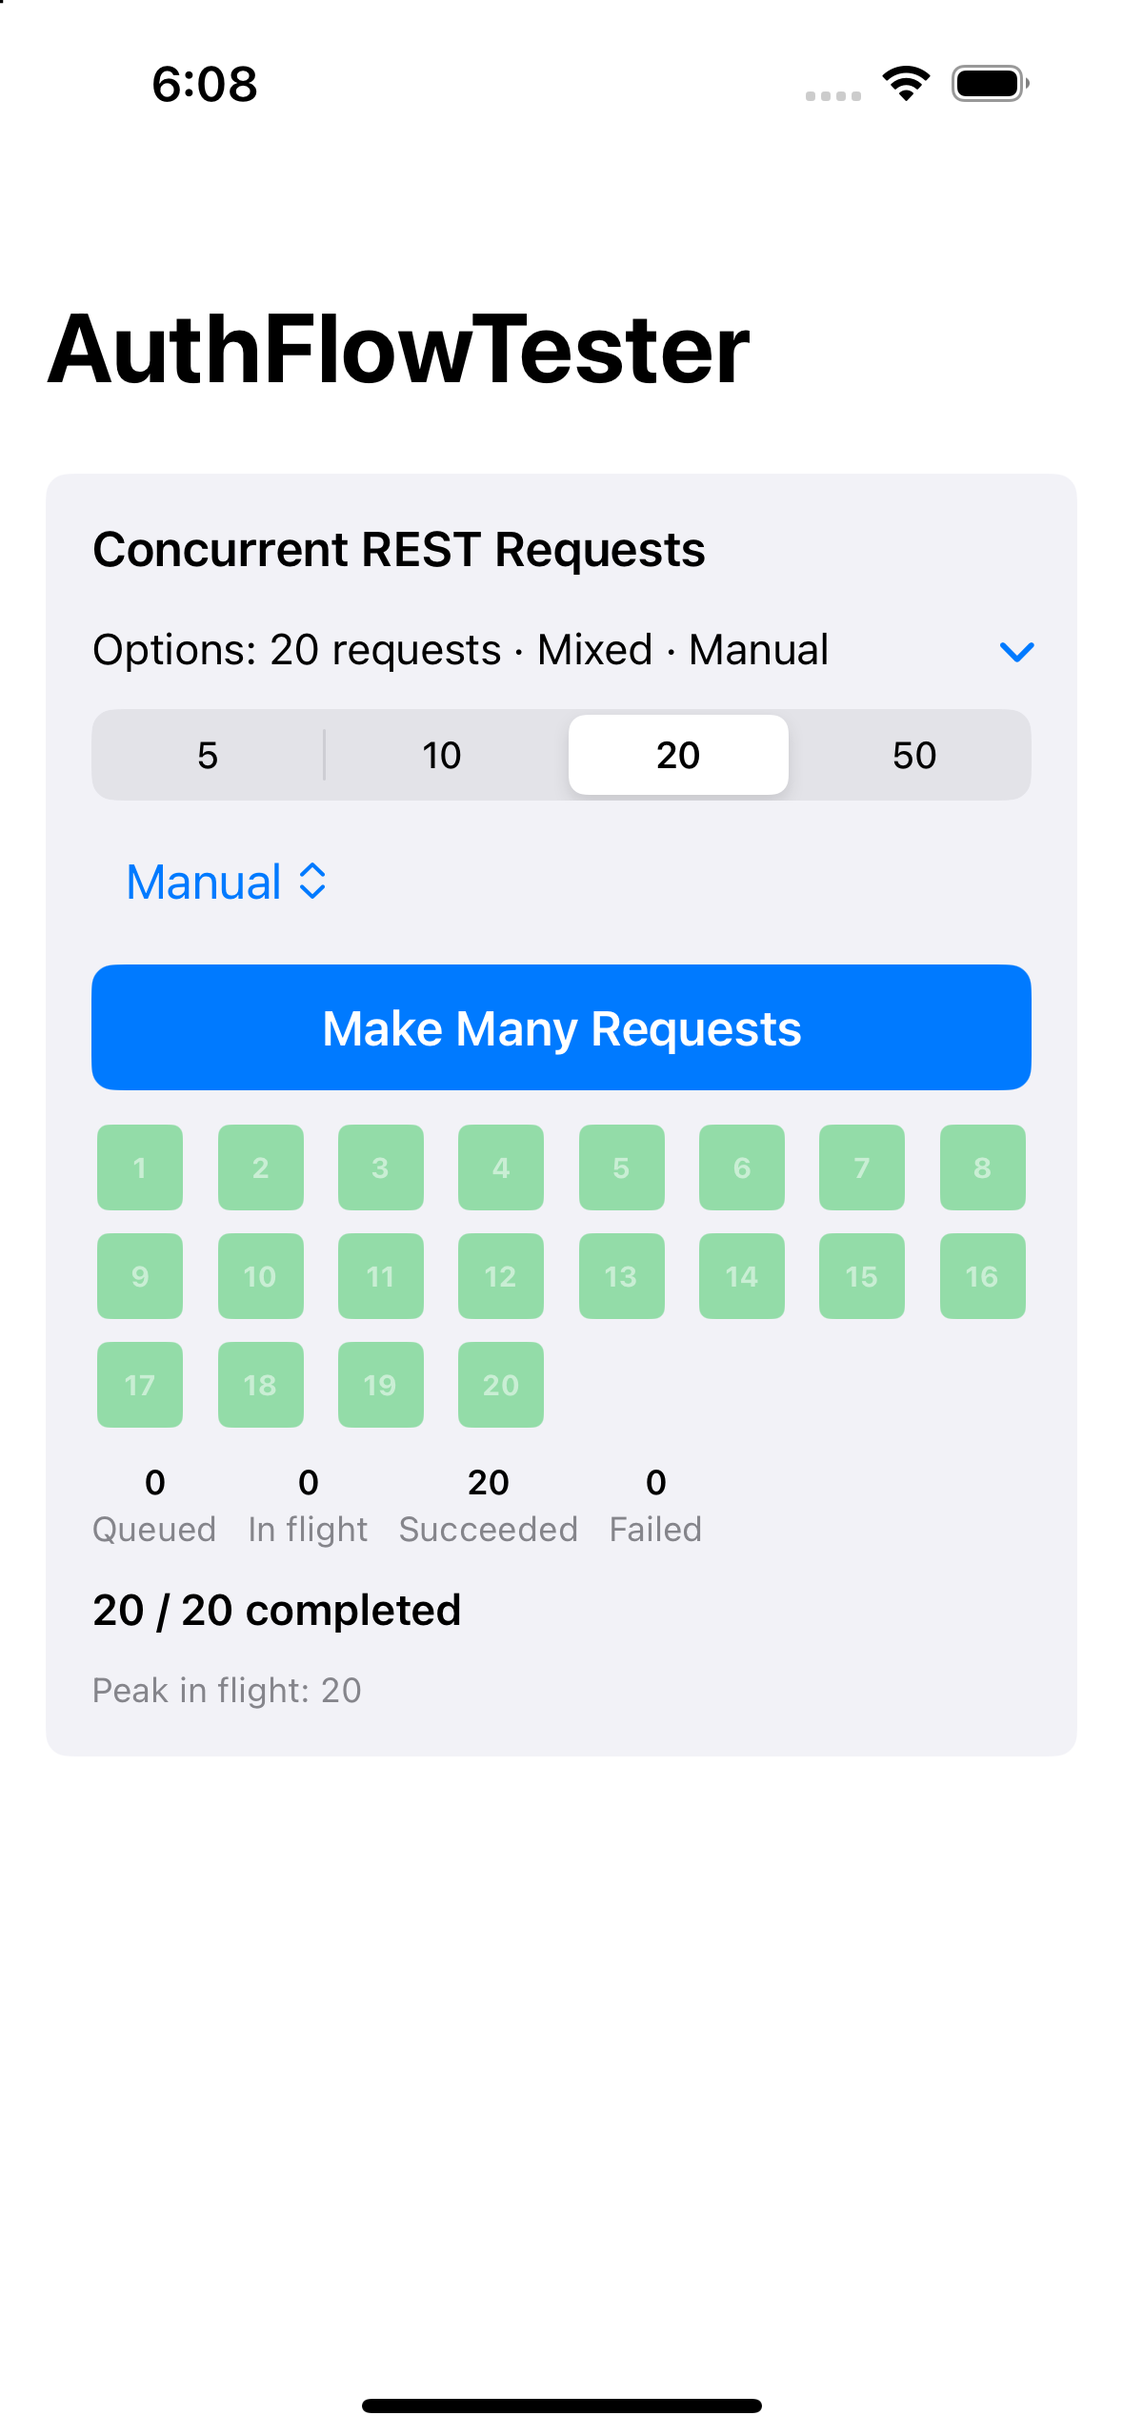
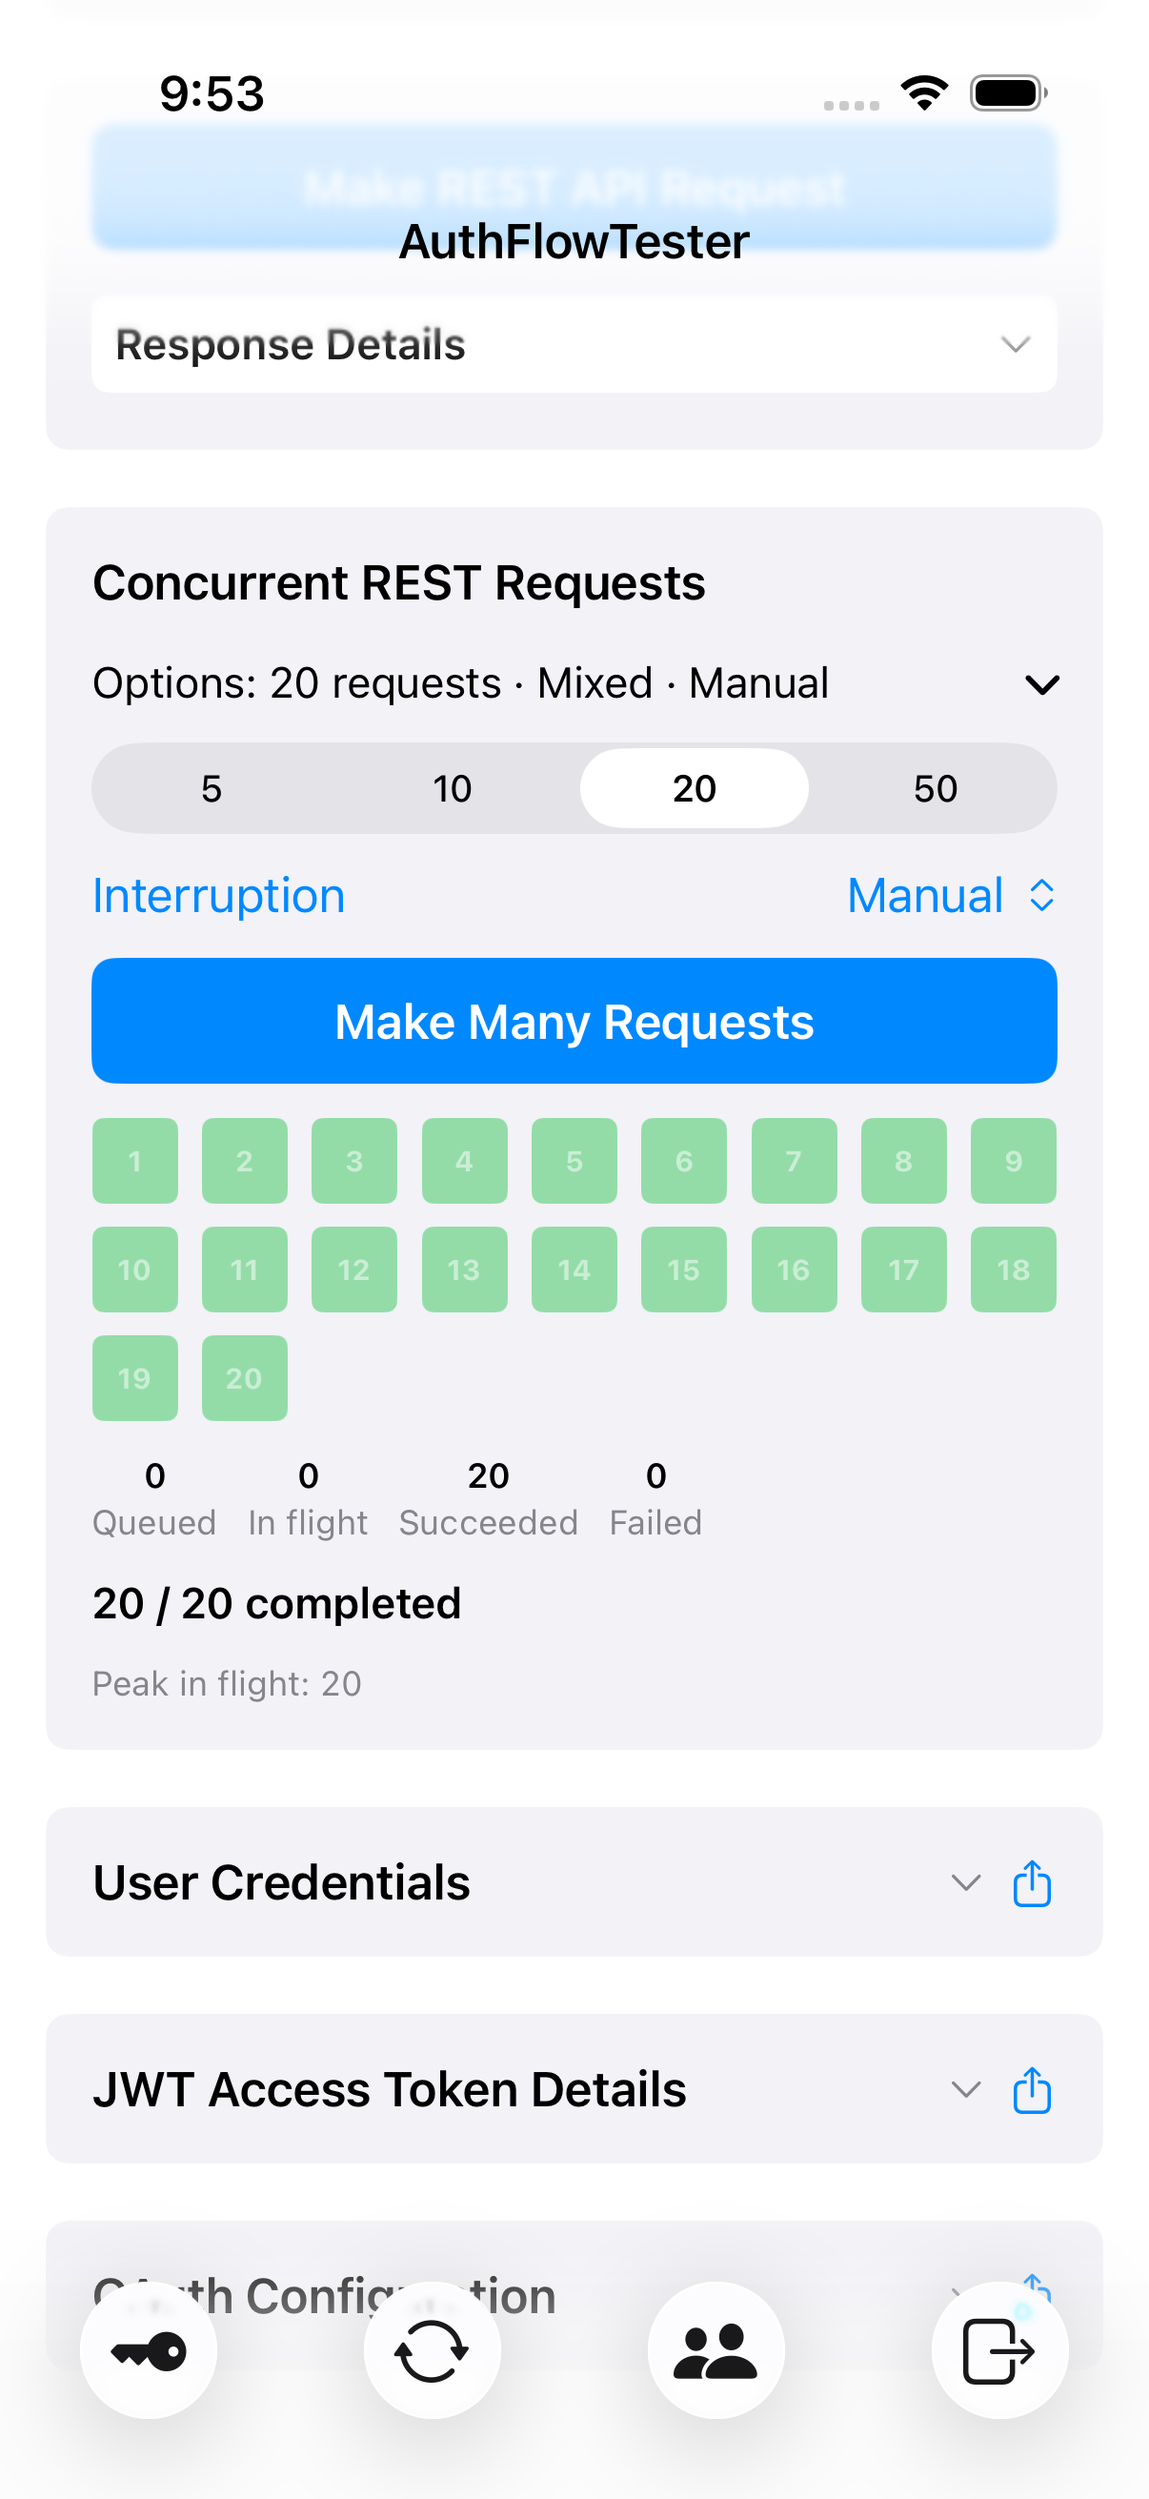
Harden concurrent AuthFlowTester scenarios

diff --git a/native/SampleApps/AuthFlowTester/AuthFlowTester/Views/RestApiTestView.swift b/native/SampleApps/AuthFlowTester/AuthFlowTester/Views/RestApiTestView.swift
@@ -190,14 +190,12 @@ struct RestApiTestView: View {
 
 private enum ConcurrentRequestKind: String, CaseIterable {
     case resources
-    case limits
     case describeGlobal
     case intentionalFailure
 
     var title: String {
         switch self {
         case .resources: return "API Resources"
-        case .limits: return "Limits"
         case .describeGlobal: return "Describe Global"
         case .intentionalFailure: return "Intentional Failure"
         }
@@ -345,12 +343,21 @@ struct ConcurrentRestApiTestView: View {
                     .disabled(isRunning)
                     .accessibilityIdentifier("manyRequestsCountPicker")
 
-                    Picker("Interruption", selection: $interruption) {
+                    Menu {
                         ForEach(ConcurrentRequestInterruption.allCases) { mode in
-                            Text(mode.title).tag(mode)
+                            Button(mode.title) {
+                                interruption = mode
+                            }
+                        }
+                    } label: {
+                        HStack {
+                            Text("Interruption")
+                            Spacer()
+                            Text(interruption.title)
+                            Image(systemName: "chevron.up.chevron.down")
+                                .font(.caption)
                         }
                     }
-                    .pickerStyle(.menu)
                     .disabled(isRunning)
                     .accessibilityIdentifier("manyRequestsInterruptionPicker")
 
@@ -365,8 +372,8 @@ struct ConcurrentRestApiTestView: View {
                 Text("Options: \(requestCount) requests · Mixed · \(interruption.title)")
                     .font(.subheadline)
                     .foregroundColor(.primary)
+                    .accessibilityIdentifier("manyRequestsOptions")
             }
-            .accessibilityIdentifier("manyRequestsOptions")
 
             Button(action: {
                 Task {
@@ -645,7 +652,9 @@ struct ConcurrentRestApiTestView: View {
             return .intentionalFailure
         }
         #endif
-        let mix: [ConcurrentRequestKind] = [.resources, .limits, .describeGlobal]
+        // Keep the stress mix usable by minimally privileged test users. API Resources is
+        // intentionally weighted to avoid adding a permission-dependent endpoint.
+        let mix: [ConcurrentRequestKind] = [.resources, .resources, .describeGlobal]
         return mix[(requestNumber - 1) % mix.count]
     }
 
@@ -653,8 +662,6 @@ struct ConcurrentRestApiTestView: View {
         switch kind {
         case .resources:
             return client.cheapRequest(nil)
-        case .limits:
-            return client.request(forLimits: nil)
         case .describeGlobal:
             return client.request(forDescribeGlobal: nil)
         case .intentionalFailure:

diff --git a/native/SampleApps/AuthFlowTester/AuthFlowTesterUITests/Tests/DPoPLoginTests.swift b/native/SampleApps/AuthFlowTester/AuthFlowTesterUITests/Tests/DPoPLoginTests.swift
@@ -38,7 +38,7 @@ class DPoPLoginTests: BaseAuthFlowTester {
     /// Login with ECA JWT DPoP using hybrid flow and verify DPoP token binding.
     func test_givenDPoPHybrid_whenLogin_thenTokenTypeIsDPoPAndRefreshWorks() throws {
         launchLoginAndValidate(staticAppConfigName: .ecaJwtDpop, useDPoP: true)
-        // Two revoke/refresh cycles verify DPoP binding survives a second nonce rotation
+        // Two revoke/refresh cycles verify DPoP binding survives a second recovery
         // (parity with Android's `testECAJwtDPoP_Hybrid`).
         assertRevokeAndRefreshWorks(expectsRefreshTokenRotation: false, isDPoP: true, isJwt: true)
         assertRevokeAndRefreshWorks(expectsRefreshTokenRotation: false, isDPoP: true, isJwt: true)
@@ -47,7 +47,7 @@ class DPoPLoginTests: BaseAuthFlowTester {
     /// Login with ECA JWT DPoP without hybrid flow and verify DPoP token binding.
     func test_givenDPoPNoHybrid_whenLogin_thenTokenTypeIsDPoPAndRefreshWorks() throws {
         launchLoginAndValidate(staticAppConfigName: .ecaJwtDpop, useHybridFlow: false, useDPoP: true)
-        // Two revoke/refresh cycles verify DPoP binding survives a second nonce rotation
+        // Two revoke/refresh cycles verify DPoP binding survives a second recovery
         // (parity with Android's `testECAJwtDPoP_NoHybrid`).
         assertRevokeAndRefreshWorks(expectsRefreshTokenRotation: false, isDPoP: true, useHybridFlow: false, isJwt: true)
         assertRevokeAndRefreshWorks(expectsRefreshTokenRotation: false, isDPoP: true, useHybridFlow: false, isJwt: true)
@@ -84,7 +84,6 @@ class DPoPLoginTests: BaseAuthFlowTester {
         XCTAssertNotEqual(credentialsAfter.refreshToken, credentialsBefore.refreshToken)
         XCTAssertEqual(credentialsAfter.dpopTokenType, "DPoP")
         XCTAssertFalse(credentialsAfter.dpopNonce?.isEmpty ?? true)
-        XCTAssertNotEqual(credentialsAfter.dpopNonce, credentialsBefore.dpopNonce)
     }
 
     /// Revoke a non-RTR DPoP session under load and verify proof/nonce recovery remains usable.
@@ -107,7 +106,6 @@ class DPoPLoginTests: BaseAuthFlowTester {
         XCTAssertEqual(credentialsAfter.refreshToken, credentialsBefore.refreshToken)
         XCTAssertEqual(credentialsAfter.dpopTokenType, "DPoP")
         XCTAssertFalse(credentialsAfter.dpopNonce?.isEmpty ?? true)
-        XCTAssertNotEqual(credentialsAfter.dpopNonce, credentialsBefore.dpopNonce)
     }
 
     // MARK: - Multi-User

diff --git a/native/SampleApps/AuthFlowTester/AuthFlowTesterUITests/Tests/MultiUserLoginTests.swift b/native/SampleApps/AuthFlowTester/AuthFlowTesterUITests/Tests/MultiUserLoginTests.swift
@@ -524,15 +524,20 @@ class MultiUserLoginTests: BaseAuthFlowTester {
         let removedUsername = getUserCredentials().username
 
         startManyRestRequests(interruption: .logout)
-        XCTAssertTrue(waitForManyRequestsInterruptionRequested())
+        XCTAssertTrue(
+            waitForCurrentUser(username: userACredentials.username),
+            "The remaining RTR user should become current after the DPoP+RTR user is logged out under load"
+        )
 
+        // Logout briefly presents a fresh advanced-auth browser even though the SDK has already
+        // switched the underlying current user. A cold relaunch removes that transient surface
+        // and proves the surviving account was persisted as current before we interact with it.
+        restartAndValidateUser(user: .fourth, userAppConfigName: .ecaJwtRtr)
         let currentCredentials = getUserCredentials()
         XCTAssertEqual(currentCredentials.username, userACredentials.username)
         XCTAssertEqual(currentCredentials.accessToken, userACredentials.accessToken)
         XCTAssertEqual(currentCredentials.refreshToken, userACredentials.refreshToken)
-        XCTAssertTrue(makeRestRequest(), "The remaining RTR user should be usable after cleanup")
 
-        restartAndValidateUser(user: .fourth, userAppConfigName: .ecaJwtRtr)
         let userListState = inspectUserList(for: removedUsername)
         XCTAssertEqual(userListState.userCount, 1, "Only the remaining RTR user should survive restart")
         XCTAssertFalse(userListState.containsUsername, "The logged-out DPoP+RTR user must stay removed")

diff --git a/native/SampleApps/AuthFlowTester/AuthFlowTesterUITests/Tests/ConcurrentRestRequestTests.swift b/native/SampleApps/AuthFlowTester/AuthFlowTesterUITests/Tests/ConcurrentRestRequestTests.swift
@@ -39,8 +39,9 @@ class ConcurrentRestRequestTests: BaseAuthFlowTester {
 
         assertSuccessfulBatch(result)
         XCTAssertTrue(manyRequestType(at: 1).contains("API Resources"))
-        XCTAssertTrue(manyRequestType(at: 2).contains("Limits"))
+        XCTAssertTrue(manyRequestType(at: 2).contains("API Resources"))
         XCTAssertTrue(manyRequestType(at: 3).contains("Describe Global"))
+        XCTAssertNotEqual(manyRequestType(at: 1), manyRequestType(at: 3))
         let credentialsAfterBatch = getUserCredentials()
         XCTAssertEqual(credentialsAfterBatch.accessToken, credentialsBeforeBatch.accessToken)
         XCTAssertEqual(credentialsAfterBatch.refreshToken, credentialsBeforeBatch.refreshToken)
@@ -74,11 +75,10 @@ class ConcurrentRestRequestTests: BaseAuthFlowTester {
         launchLoginAndValidate(staticAppConfigName: .ecaJwtRtr)
 
         startManyRestRequests(interruption: .logout)
-        XCTAssertTrue(waitForManyRequestsInterruptionRequested(), "Logout should be requested only after requests enter flight")
-        XCTAssertTrue(isShowingLogin(), "Logout under load should return to login")
+        XCTAssertTrue(waitForLoggedOut(), "Logout under load should return to an unauthenticated login surface")
 
         restart()
-        XCTAssertTrue(isShowingLogin(), "A cold relaunch must not resurrect the logged-out user")
+        XCTAssertTrue(waitForLoggedOut(), "A cold relaunch must not resurrect the logged-out user")
     }
 
     private func assertSuccessfulBatch(_ result: ManyRequestsResult, file: StaticString = #filePath, line: UInt = #line) {

diff --git a/native/SampleApps/AuthFlowTester/AuthFlowTesterUITests/PageObjects/AuthFlowTesterMainPageObject.swift b/native/SampleApps/AuthFlowTester/AuthFlowTesterUITests/PageObjects/AuthFlowTesterMainPageObject.swift
@@ -292,6 +292,17 @@ class AuthFlowTesterMainPageObject {
         tap(manyRequestsInterruptionPicker())
         tap(app.buttons[interruption.rawValue])
 
+        let selectedInterruption = NSPredicate(format: "label CONTAINS %@", interruption.rawValue)
+        let selectionExpectation = XCTNSPredicateExpectation(
+            predicate: selectedInterruption,
+            object: manyRequestsOptionsButton()
+        )
+        XCTAssertEqual(
+            XCTWaiter.wait(for: [selectionExpectation], timeout: UITestTimeouts.long),
+            .completed,
+            "Concurrent request interruption did not change to \(interruption.rawValue)"
+        )
+
         scrollToElement(makeManyRestRequestsButton())
         tap(makeManyRestRequestsButton())
     }
@@ -386,6 +397,16 @@ class AuthFlowTesterMainPageObject {
         tap(navigationBar.buttons["Cancel"])
         XCTAssertTrue(navigationBar.waitForNonExistence(timeout: UITestTimeouts.long))
         return state
+    }
+
+    func waitForCurrentUser(username: String) -> Bool {
+        let credentialsSection = userCredentialsSection()
+        guard credentialsSection.waitForExistence(timeout: UITestTimeouts.long) else { return false }
+        let predicate = NSPredicate { _, _ in
+            (credentialsSection.value as? String) == username
+        }
+        let expectation = XCTNSPredicateExpectation(predicate: predicate, object: credentialsSection)
+        return XCTWaiter.wait(for: [expectation], timeout: UITestTimeouts.network) == .completed
     }
     
     func revokeAccessToken() -> Bool {

diff --git a/native/SampleApps/AuthFlowTester/AuthFlowTesterUITests/PageObjects/LoginPageObject.swift b/native/SampleApps/AuthFlowTester/AuthFlowTesterUITests/PageObjects/LoginPageObject.swift
@@ -41,6 +41,20 @@ class LoginPageObject {
     func isShowing() -> Bool {
         return loginNavigationBar().waitForExistence(timeout: UITestTimeouts.network)
     }
+
+    /// Waits for any stable unauthenticated surface. Forced advanced authentication presents
+    /// the system browser instead of the legacy in-app "Log In" navigation controller.
+    func waitForLoggedOut() -> Bool {
+        let salesforceLoginTitle = app.staticTexts["Salesforce login"].firstMatch
+        let predicate = NSPredicate { [weak self] _, _ in
+            guard let self else { return false }
+            return self.loginNavigationBar().exists ||
+                self.advancedAuthCloseButton().exists ||
+                salesforceLoginTitle.exists
+        }
+        let expectation = XCTNSPredicateExpectation(predicate: predicate, object: app)
+        return XCTWaiter.wait(for: [expectation], timeout: UITestTimeouts.network) == .completed
+    }
     
     func hasFilledUsernameField(username: String) -> Bool {
         return app.staticTexts[username].waitForExistence(timeout: UITestTimeouts.long)

diff --git a/native/SampleApps/AuthFlowTester/AuthFlowTesterUITests/Util/BaseAuthFlowTester.swift b/native/SampleApps/AuthFlowTester/AuthFlowTesterUITests/Util/BaseAuthFlowTester.swift
@@ -1139,8 +1139,16 @@ class BaseAuthFlowTester: XCTestCase {
         return mainPage.inspectUserList(for: username)
     }
 
+    func waitForCurrentUser(username: String) -> Bool {
+        return mainPage.waitForCurrentUser(username: username)
+    }
+
     func isShowingLogin() -> Bool {
         return loginPage.isShowing()
+    }
+
+    func waitForLoggedOut() -> Bool {
+        return loginPage.waitForLoggedOut()
     }
 
     // MARK: - Force Advanced Auth Test Support

diff --git a/native/SampleApps/AuthFlowTester/AuthFlowTester/Views/UserCredentialsView.swift b/native/SampleApps/AuthFlowTester/AuthFlowTester/Views/UserCredentialsView.swift
@@ -146,6 +146,7 @@ struct UserCredentialsView: View {
                             .foregroundColor(.secondary)
                     }
                 }
+                .accessibilityValue(username)
                 Button(action: {
                     exportedJSON = generateCredentialsJSON()
                     showExportAlert = true

diff --git a/native/SampleApps/AuthFlowTester/README.md b/native/SampleApps/AuthFlowTester/README.md
@@ -53,7 +53,7 @@ External Client App (ECA) login tests for both opaque and JWT token formats with
 | `testDynamicConfigurationWithInvalidScope` | — | — | Invalid scope; login must fail |
 
 #### DPoPLoginTests
-All DPoP tests live here — basic login, RTR, multi-user, migration, server enforcement, upgrade, restart, pool server, and admin login. Verifies that DPoP-bound access tokens are issued (`token_type: "DPoP"`), API calls succeed with `ath`-bound proofs, the access token refreshes correctly, and the DPoP nonce rotates on every `/token` response.
+All DPoP tests live here — basic login, RTR, multi-user, migration, server enforcement, upgrade, restart, pool server, and admin login. Verifies that DPoP-bound access tokens are issued (`token_type: "DPoP"`), API calls succeed with `ath`-bound proofs, the access token refreshes correctly, and server-issued DPoP nonces are harvested and reused until the server rotates them.
 
 | Test | App Config | Hybrid | Notes |
 |------|-----------|--------|-------|
@@ -61,7 +61,7 @@ All DPoP tests live here — basic login, RTR, multi-user, migration, server enf
 | `test_givenDPoPNoHybrid_whenLogin_thenTokenTypeIsDPoPAndRefreshWorks` | ECA JWT DPoP | No | |
 | `test_givenDPoPRtrHybrid_whenLogin_thenRefreshTokenRotatesAndDPoPBindingHolds` | ECA JWT DPoP RTR | Yes | DPoP + refresh token rotation |
 | `test_givenDPoPRtrNoHybrid_whenLogin_thenRefreshTokenRotatesAndDPoPBindingHolds` | ECA JWT DPoP RTR | No | DPoP + refresh token rotation |
-| `test_givenDPoPRTRSessionWithInvalidAccessToken_whenMakingManyRequests_thenReplayPreservesBinding` | ECA JWT DPoP RTR | Yes | 20 concurrent mixed requests share refresh/replay; access token, refresh token, and nonce rotate |
+| `test_givenDPoPRTRSessionWithInvalidAccessToken_whenMakingManyRequests_thenReplayPreservesBinding` | ECA JWT DPoP RTR | Yes | 20 concurrent mixed requests share refresh/replay; access and refresh tokens rotate while the server nonce remains usable |
 | `test_givenDPoPRequestsInFlight_whenRevoked_thenBindingIsPreserved` | ECA JWT DPoP | Yes | Revoke under concurrent load; follow-up proof and nonce recovery succeed |
 | `test_givenTwoDPoPUsers_whenSwitchAndRefresh_thenTokensAndNoncesAreIsolated` | ECA JWT DPoP | — | Two users; unique tokens and nonces; independent revoke+refresh per user |
 | `test_givenDPoPUserWithSubsetScopes_whenMigrateToAllScopes_thenDPoPBindingPreserved` | ECA JWT DPoP | — | Scope upgrade; DPoP binding preserved |
@@ -92,8 +92,9 @@ Tests for ECA configurations with Refresh Token Rotation (RTR) enabled. Verifies
 
 #### ConcurrentRestRequestTests
 Exercises AuthFlowTester's concurrent REST stress surface. The app keeps the original one-request
-card unchanged and adds a separate card that runs a read-only round-robin mix of API resources,
-limits, and describe-global requests. Options provide 5/10/20/50 request counts and manual,
+card unchanged and adds a separate card that runs a read-only mix of API-resources and
+describe-global requests, weighted toward the cheaper API-resources call. Options provide
+5/10/20/50 request counts and manual,
 revoke-in-flight, or logout-in-flight interruption modes. The result grid reports queued,
 in-flight, succeeded, and failed requests; tapping a failed square opens copyable diagnostics.
 
@@ -231,7 +232,7 @@ Each `launchLoginAndValidate` call performs the following checks:
 
 `assertRevokeAndRefreshWorks` additionally verifies for DPoP apps:
 - **Token type preserved** — `OAuth Token Type` remains `"DPoP"` after refresh
-- **Nonce rotated** — the DPoP nonce changes after each token refresh cycle
+- **Nonce available** — a non-empty server-issued nonce remains available after refresh; the server may reuse it until it chooses to rotate it
 
 Migration tests additionally verify:
 - Access and refresh tokens are **replaced** (not reused)
